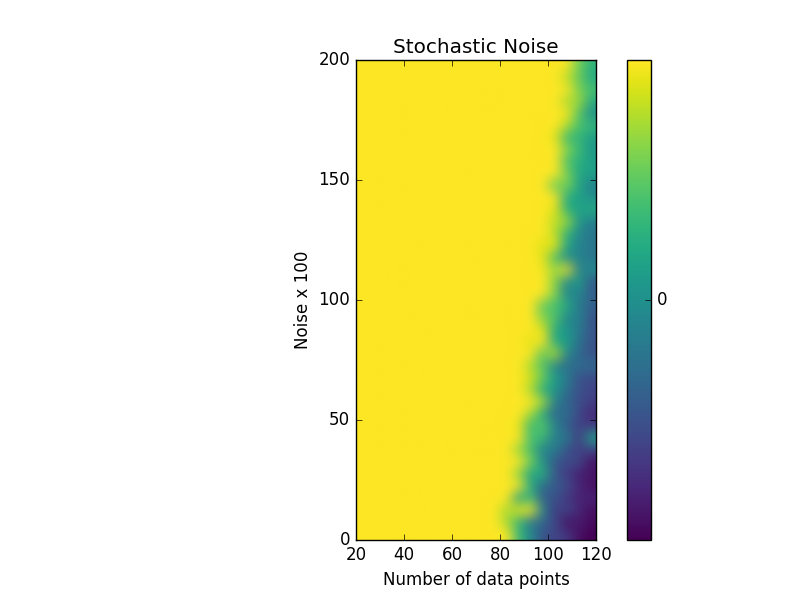
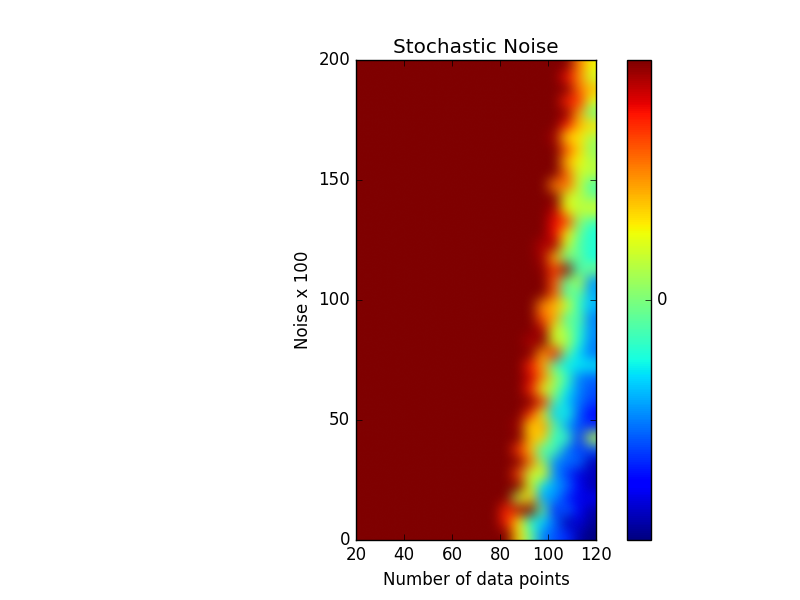
Misc

Changed region(s): [[0.4375, 0.09, 0.75, 0.9], [0.7812, 0.09, 0.8125, 0.9]]

diff --git a/plot.py b/plot.py
@@ -3,7 +3,6 @@ from os.path import isfile, join
 import numpy as np
 import cPickle
 import matplotlib.pyplot as plt
-from scipy import stats
 from matplotlib import cm
 
 fileNames = [f for f in listdir(".") if isfile(join(".", f))]
@@ -18,7 +17,13 @@ for fileName in fileNames:
             else: Z = np.concatenate((Z,cPickle.load(f)),axis=0)
 print Z.shape
 
-Z = np.mean(Z,axis=0)
+zstd = Z.std(axis=0)
+zmean = Z.mean(axis=0)
+
+#for i in range(Z.shape[0]):
+#    Z[i][Z[i] >  zmean + 5 * zstd] = np.NaN
+
+Z = np.nanmean(Z,axis=0)
 #Z = np.median(Z,axis=0)
 
 #print Z
@@ -27,7 +32,7 @@ Z = np.clip(Z, -.2, .2)
 #print max(dump)
 
 fig, ax = plt.subplots()
-cax = ax.imshow(Z, interpolation='bicubic', cmap=cm.viridis, extent=[20,120,0,200])
+cax = ax.imshow(Z, interpolation='bicubic', cmap=cm.jet, extent=[20,120,0,200])
 ax.set_title("Stochastic Noise")
 ax.set_xlabel("Number of data points")
 ax.set_ylabel("Noise x 100")
